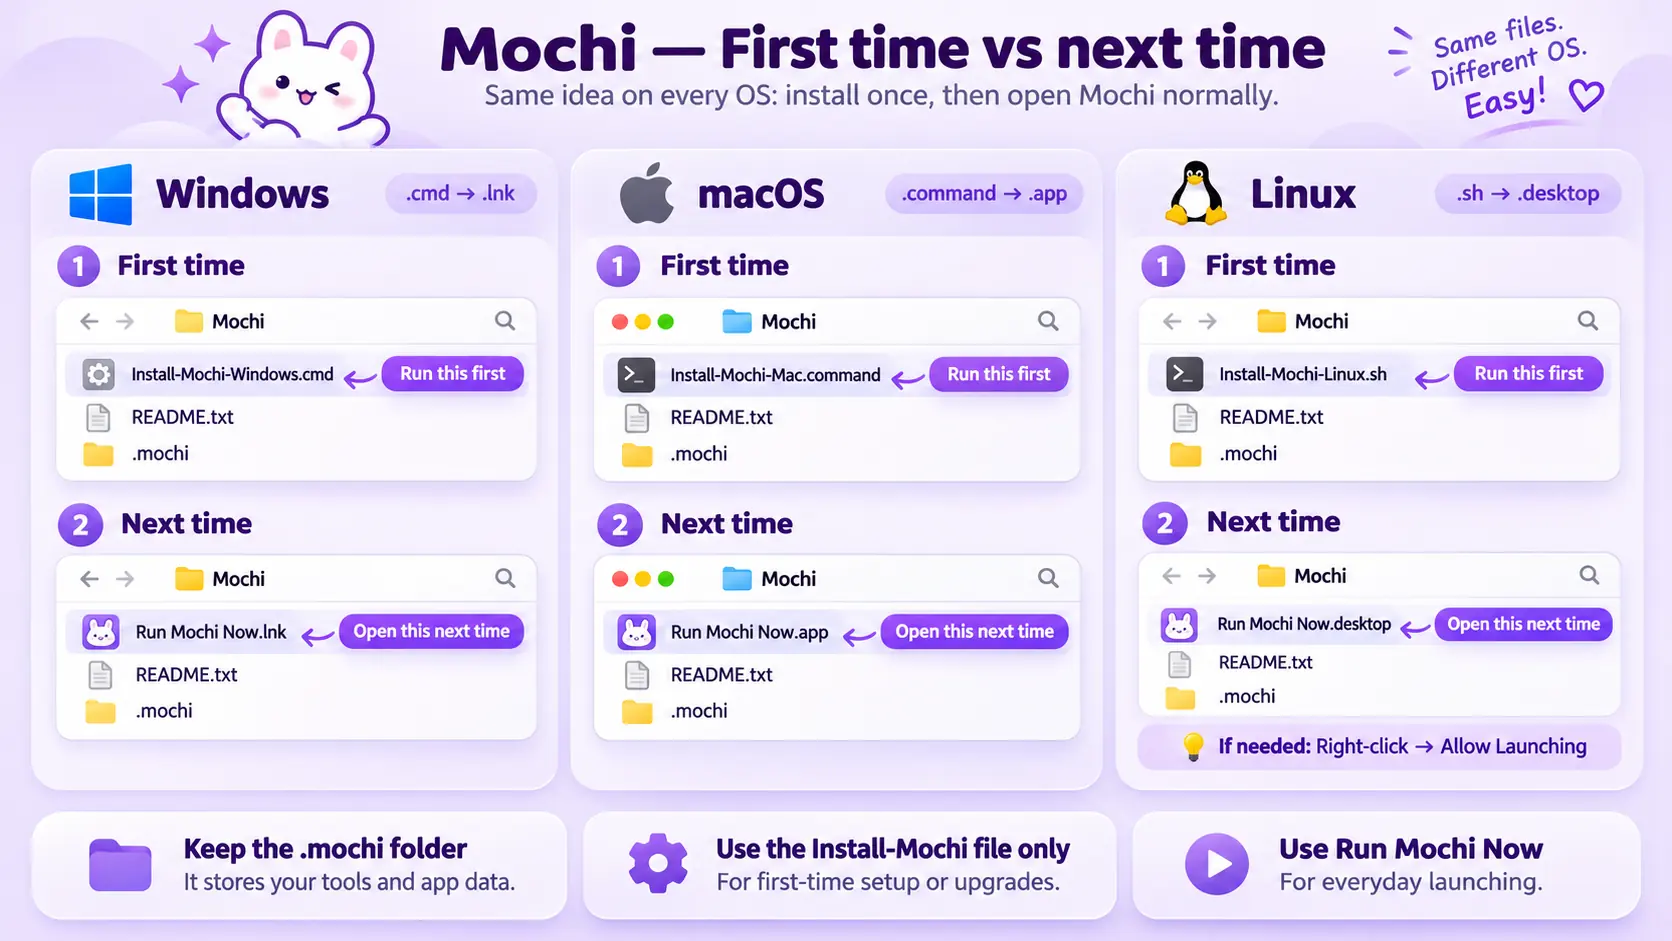
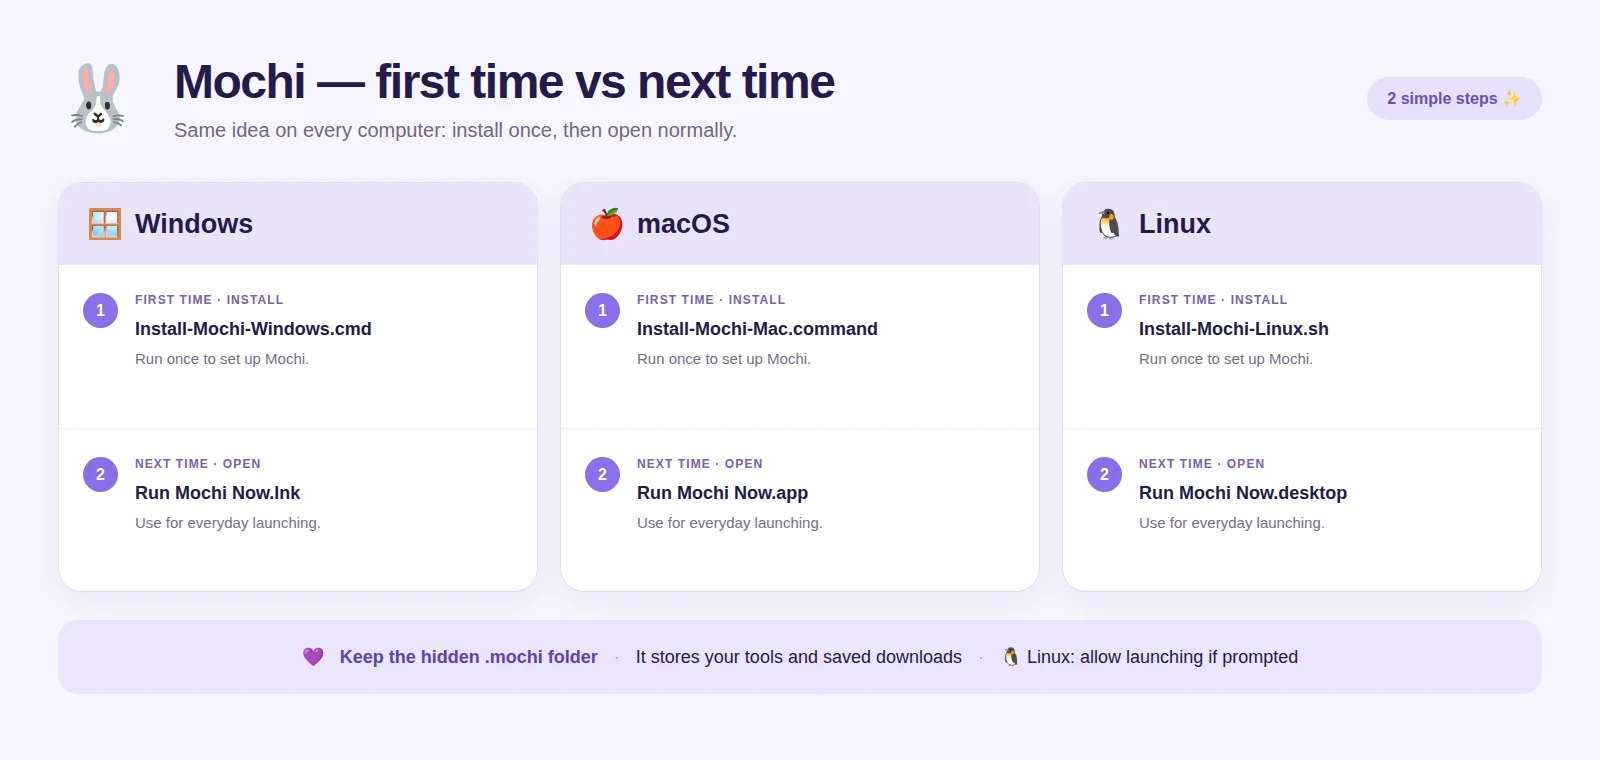
Refresh Mochi README and real screenshots for current UI
Replace stale sidebar screenshot with actual current Mochi capture; add verified transcript preview screenshot; replace OS setup guide with accurate filenames; correct bundled quick-start instructions; preserve honest in-app update/bookmark roadmap notes; add screenshot workflow and cross-platform documentation tests.

diff --git a/.github/scripts/render_docs_previews.py b/.github/scripts/render_docs_previews.py
@@ -1,0 +1,177 @@
+#!/usr/bin/env python3
+"""Capture README images from the real local Mochi UI, never from a mockup.
+
+The completed-job example uses a clearly synthetic TXT file. No YouTube
+traffic, accounts, third-party AI, or private user data is involved.
+"""
+from __future__ import annotations
+
+import html
+import os
+import sys
+import threading
+from http.server import ThreadingHTTPServer
+from pathlib import Path
+
+from PIL import Image
+from playwright.sync_api import sync_playwright
+
+ROOT = Path(__file__).resolve().parents[2]
+sys.path.insert(0, str(ROOT / "app"))
+import studio  # noqa: E402
+
+DOCS = ROOT / "docs"
+DOCS.mkdir(exist_ok=True)
+SAMPLE = (
+    "Welcome to Mochi! This is a sample transcript for the documentation.\n"
+    "Choose Transcript to save spoken words as a text file.\n"
+    "Mochi checks published YouTube captions before using local AI.\n"
+    "When the transcript finishes, choose Open transcript to read it right here.\n"
+    "Choose Copy for AI to paste the text into ChatGPT, Claude, or any AI.\n"
+    "Choose Open folder to find the original Transcript.txt on your computer.\n"
+    "Your text is not sent anywhere automatically.\n"
+    "This example uses demonstration text, not an actual YouTube transcript.\n"
+)
+
+
+def save_webp(page, name: str, *, locator: str | None = None) -> None:
+    path = DOCS / name
+    png = path.with_suffix(".capture.png")
+    if locator:
+        page.locator(locator).screenshot(path=str(png), animations="disabled")
+    else:
+        page.screenshot(path=str(png), full_page=True, animations="disabled")
+    with Image.open(png) as image:
+        image.convert("RGB").save(path, "WEBP", quality=88, method=6)
+    png.unlink()
+    if path.stat().st_size < 8_000:
+        raise RuntimeError(f"Invalid tiny screenshot: {name}")
+
+
+def capture_actual_ui(browser) -> None:
+    studio.ROOT = ROOT
+    studio.OUTPUT_DIR = ROOT / ".mochi" / "Downloads"
+    studio.OUTPUT_DIR.mkdir(parents=True, exist_ok=True)
+    studio.JOB = studio.JobState()
+    server = ThreadingHTTPServer(("127.0.0.1", 0), studio.WebHandler)
+    server.daemon_threads = True
+    server.secret = "docs-demo-local-session-key-not-for-users"
+    thread = threading.Thread(target=server.serve_forever, daemon=True)
+    thread.start()
+    base = f"http://127.0.0.1:{server.server_port}/?key={server.secret}"
+    page = browser.new_page(viewport={"width": 1440, "height": 1000},
+                            device_scale_factor=1)
+    try:
+        page.goto(base, wait_until="networkidle", timeout=30000)
+        page.locator(".hero-bunny img").evaluate(
+            "(image) => image.decode()"
+        )
+        assert page.locator("aside.sidebar .side-link").count() == 3
+        assert page.locator("label.choice").count() == 4
+        assert page.locator("aside.sidebar").inner_text().find("Full video") == -1
+        save_webp(page, "mochi-interface.webp")
+
+        page.locator('label.choice:has(input[value="transcript"])').click()
+        folder = studio.OUTPUT_DIR / "Mochi sample - demo"
+        folder.mkdir(parents=True, exist_ok=True)
+        (folder / "Transcript.txt").write_text(SAMPLE, encoding="utf-8")
+        studio.JOB.update(
+            "All done! Your files are ready 💜", 100, state="done",
+            files=["Transcript.txt"], folder=str(folder)
+        )
+        page.locator("#open-transcript").wait_for(state="visible", timeout=10000)
+        page.locator("#open-transcript").click()
+        page.locator("#transcript-preview").wait_for(state="visible", timeout=10000)
+        assert "This is a sample transcript" in page.locator("#transcript-text").input_value()
+        assert page.locator("#copy-transcript").is_visible()
+        assert page.locator("#open-folder").is_visible()
+        save_webp(page, "mochi-transcript-result.webp", locator="#activity")
+    finally:
+        page.close()
+        server.shutdown()
+        server.server_close()
+        thread.join(timeout=5)
+
+
+def guide_html() -> str:
+    src = (ROOT / "app" / "install_layout.py").read_text(encoding="utf-8")
+    first = [
+        ("Windows", "🪟", "Install-Mochi-Windows.cmd", "Run Mochi Now.lnk"),
+        ("macOS", "🍎", "Install-Mochi-Mac.command", "Run Mochi Now.app"),
+        ("Linux", "🐧", "Install-Mochi-Linux.sh", "Run Mochi Now.desktop"),
+    ]
+    for _os, _icon, install, next_time in first:
+        assert (ROOT / install).is_file(), install
+        assert next_time in src, next_time
+    cards = []
+    for platform, icon, installer, launcher in first:
+        cards.append(f"""
+        <article>
+          <header><span class="os-icon">{icon}</span><h2>{platform}</h2></header>
+          <div class="step"><span class="num">1</span><div>
+             <div class="eyebrow">FIRST TIME · INSTALL</div>
+             <div class="filename">{html.escape(installer)}</div>
+             <p>Run once to set up Mochi.</p></div></div>
+          <div class="step"><span class="num">2</span><div>
+             <div class="eyebrow">NEXT TIME · OPEN</div>
+             <div class="filename">{html.escape(launcher)}</div>
+             <p>Use for everyday launching.</p></div></div>
+        </article>""")
+    return """<!doctype html><html lang="en"><head><meta charset="utf-8">
+    <style>
+      *{box-sizing:border-box}body{margin:0;background:#f7f5fe;color:#241a4b;
+      font-family:Arial,Helvetica,sans-serif}main{padding:54px 58px 40px}
+      .headline{display:flex;align-items:center;justify-content:space-between;gap:36px}
+      .bunny{font-size:64px}.heading{flex:1}.heading h1{font-size:48px;margin:0 0 10px;
+      letter-spacing:-1.5px}.heading p{font-size:20px;color:#72658c;margin:0}
+      .chip{background:#e7dffc;color:#6950b5;padding:12px 20px;border-radius:99px;
+      font-size:16px;font-weight:800}.cards{display:grid;grid-template-columns:repeat(3,1fr);
+      gap:22px;margin:40px 0 28px}article{background:white;border:1px solid #e3dcf2;
+      border-radius:24px;overflow:hidden;box-shadow:0 10px 30px #4d308812}
+      article header{padding:24px 28px;background:#eae3fa;display:flex;gap:12px;align-items:center}
+      article h2{font-size:27px;margin:0}.os-icon{font-size:29px}.step{display:flex;gap:17px;
+      align-items:start;padding:28px 24px 20px;min-height:163px}
+      .step+.step{border-top:1px solid #eee9f6}.num{width:35px;height:35px;flex:0 0 35px;
+      display:grid;place-items:center;background:#8c6eeb;color:white;border-radius:50%;font-weight:900}
+      .eyebrow{font-size:12px;font-weight:900;letter-spacing:1.1px;color:#7960b5;margin:0 0 10px}
+      .filename{font-size:18px;font-weight:800;line-height:1.35;overflow-wrap:anywhere}
+      .step p{font-size:15px;color:#766d8e;margin:9px 0 0}
+      footer{display:flex;align-items:center;justify-content:center;gap:16px;
+      font-size:18px;padding:26px 22px;background:#eae4fa;border-radius:20px}
+      footer strong{color:#5e42b2}footer .divider{color:#aaa0bf}
+    </style></head><body><main><div class="headline"><span class="bunny">🐰</span>
+      <div class="heading"><h1>Mochi — first time vs next time</h1>
+      <p>Same idea on every computer: install once, then open normally.</p></div>
+      <span class="chip">2 simple steps ✨</span></div>
+      <div class="cards">""" + "\n".join(cards) + """</div>
+      <footer>💜 <strong>Keep the hidden .mochi folder</strong>
+      <span class="divider">·</span> It stores your tools and saved downloads
+      <span class="divider">·</span> 🐧 Linux: allow launching if prompted</footer>
+    </main></body></html>"""
+
+
+def capture_setup_guide(browser) -> None:
+    page = browser.new_page(viewport={"width": 1600, "height": 760},
+                            device_scale_factor=1)
+    try:
+        page.set_content(guide_html(), wait_until="load")
+        assert page.locator("article").count() == 3
+        save_webp(page, "mochi-first-time-vs-next-time.webp")
+    finally:
+        page.close()
+
+
+def main() -> None:
+    with sync_playwright() as play:
+        browser = play.chromium.launch(headless=True, args=["--no-sandbox"])
+        try:
+            capture_actual_ui(browser)
+            capture_setup_guide(browser)
+        finally:
+            browser.close()
+    for path in sorted(DOCS.glob("*.webp")):
+        print(f"✔ {path.relative_to(ROOT)} ({path.stat().st_size:,} bytes)")
+
+
+if __name__ == "__main__":
+    main()

diff --git a/app/tests/test_documentation_current.py b/app/tests/test_documentation_current.py
@@ -1,0 +1,51 @@
+"""Keep public docs aligned with the working Mochi browser studio."""
+from pathlib import Path
+from PIL import Image
+
+ROOT = Path(__file__).resolve().parents[2]
+
+
+def test_readme_shows_real_current_ui_and_completed_transcript():
+    readme = (ROOT / "README.md").read_text(encoding="utf-8")
+    ui = (ROOT / "app/assets/index.html").read_text(encoding="utf-8")
+    assert ui.count('class="side-link"') == 3
+    assert "Home" not in ui.split('<aside class="sidebar"')[1].split("</aside>")[0]
+    assert 'id="open-transcript"' in ui
+    assert 'id="copy-transcript"' in ui
+    assert 'id="open-folder"' in ui
+    for image in ("mochi-interface.webp", "mochi-transcript-result.webp",
+                  "mochi-first-time-vs-next-time.webp"):
+        assert f"docs/{image}" in readme
+        path = ROOT / "docs" / image
+        assert path.is_file()
+        with Image.open(path) as img:
+            assert img.format == "WEBP"
+            assert img.width >= 800 and img.height >= 180
+            img.verify()
+
+
+def test_documentation_does_not_promise_unreleased_updater_or_bookmark_support():
+    readme = (ROOT / "README.md").read_text(encoding="utf-8")
+    assert "issues/11" in readme
+    assert "not available yet" in readme
+    assert "A bookmarked local browser link can stop working" in readme
+    assert "Run Mochi Now" in readme
+
+
+def test_both_bundled_guides_match_actual_result_actions():
+    guide = (ROOT / "📖 READ ME.txt").read_text(encoding="utf-8")
+    installed = (ROOT / "app/install_layout.py").read_text(encoding="utf-8")
+    for label in ("Open transcript", "Copy for AI", "Open folder", "Run Mochi Now"):
+        assert label in guide
+        assert label in installed
+    assert "Open my saved files" not in guide
+    assert "Open my saved files" not in installed
+
+
+def test_preview_generator_is_reusable_without_publishing_fake_features():
+    workflow = (ROOT / ".github/workflows/docs-screenshots.yml").read_text(encoding="utf-8")
+    script = (ROOT / ".github/scripts/render_docs_previews.py").read_text(encoding="utf-8")
+    assert "workflow_dispatch" in workflow
+    assert "capture_actual_ui" in script
+    assert "This example uses demonstration text" in script
+    assert "open-transcript" in script and "copy-transcript" in script

diff --git a/app/install_layout.py b/app/install_layout.py
@@ -19,17 +19,15 @@ BACKUP = STATE / 'app.previous'
 NEXT = STATE / 'app.next'
 README_NAME = '📖 READ ME.txt'
 README = """✦ MOCHI VIDEO STUDIO ✦
-======================
 
-▶ Double-click  Run Mochi Now
-🐧 Linux shortcut blocked? Right-click → Allow Launching; fallback: sh .mochi/run.sh
-🔗 Paste a YouTube link
-🎬 Pick video / audio / subtitles / text
-✨ Press Make it happen
-📂 Saved files: tap Open my saved files after completion.
-💾 In hidden .mochi/: keep Downloads; cache is safe to clear when closed. AI is optional.
-
-🛠 Stuck? Tap Fix my tools (top right).
+▶ Next time: Run Mochi Now.
+🔗 Paste a link → choose → Make it happen.
+📝 Transcript done? Open transcript / Copy for AI / Open folder.
+📁 Saved files: .mochi/Downloads. Keep .mochi (tools + files).
+🔄 Update: merge the latest ZIP into this folder; rerun Install-Mochi.
+🔖 Old browser bookmarks may expire; use Run Mochi Now.
+🛠 Stuck? Fix my tools.
+🐧 Linux: allow launching if asked; fallback: sh .mochi/run.sh
 💜 Made with love by 1Hack — OneHack.st
 """
 

diff --git a/app/tests/test_layout.py b/app/tests/test_layout.py
@@ -69,7 +69,7 @@ def test_finish_only_launcher_readme_visible(work):
     install_layout.finish()
     assert sorted(p.name for p in work.iterdir() if not p.name.startswith('.'))==[('Run Mochi Now.lnk' if (work/'Run Mochi Now.lnk').exists() else 'Run Mochi Now.cmd') if os.name == 'nt' else ('Run Mochi Now.app' if sys.platform == 'darwin' else 'Run Mochi Now.desktop'),'📖 READ ME.txt']
     readme=(work/'📖 READ ME.txt').read_text(encoding='utf-8')
-    assert len(readme)<500 and '1Hack' in readme and '📂' in readme
+    assert len(readme)<500 and '1Hack' in readme and '📁' in readme
     assert not (work/'app').exists()
     assert (work/'.mochi'/'app'/'core.py').exists()
     assert (work/'.mochi'/'run.sh').exists()

diff --git a/README.md b/README.md
@@ -14,8 +14,10 @@
 <p align="center"><sub>Free · Windows · macOS · Linux · Local AI · No account</sub></p>
 
 <p align="center">
-  <img src="docs/mochi-interface.webp" width="940" alt="Mochi's real purple interface with a bunny above the video link box and four simple download choices" />
+  <img src="docs/mochi-interface.webp" width="940" alt="Actual Mochi home screen: three sidebar utilities, a YouTube link box, and four choices for video, audio, subtitles, and transcript" />
 </p>
+
+<p align="center"><sub>Actual Mochi home screen · Video, audio, subtitles and transcript are selected here; the sidebar contains only tools.</sub></p>
 
 ---
 
@@ -39,7 +41,18 @@
 
 No paid transcription service or account required. AI is downloaded only when needed; results can contain mistakes.
 
-**📝 When a transcript finishes:** **Open transcript** to read it right in Mochi, **Copy for AI** to paste into ChatGPT, Claude, or another AI, or **Open folder** for the saved `Transcript.txt`. Nothing is uploaded or shared automatically.
+**📝 When a transcript finishes:** **Open transcript** to read it in Mochi, **Copy for AI** to paste into ChatGPT, Claude, or another AI, or **Open folder** for the saved `Transcript.txt`. Nothing is uploaded automatically.
+
+<details>
+<summary><strong>👀 See the actual finished transcript view</strong></summary>
+
+<p align="center">
+  <img src="docs/mochi-transcript-result.webp" width="940" alt="Actual Mochi completion panel with Open transcript, Copy for AI, Open folder, and a read-only preview of demonstration transcript text" />
+</p>
+
+<sub>Captured from Mochi's current interface using clearly labeled demonstration text—not an actual YouTube transcript.</sub>
+
+</details>
 
 ---
 
@@ -51,7 +64,7 @@ No paid transcription service or account required. AI is downloaded only when ne
 
 ### 🗂 First time vs next time
 
-**First time:** Install-Mochi &nbsp; → &nbsp; **Everyday:** Run Mochi Now
+**First time:** `Install-Mochi` for your OS &nbsp; → &nbsp; **Next time:** `Run Mochi Now`.
 
 <p align="center">
   <img src="docs/mochi-first-time-vs-next-time.webp" width="940" alt="Mochi setup guide for Windows, macOS and Linux: use the Install-Mochi file for first-time setup, then Run Mochi Now for everyday use. Keep the hidden .mochi folder." />
@@ -88,6 +101,15 @@ Never delete the whole `.mochi` folder to save space.
 ## 🛠 Need help?
 
 **Something stuck?** Open Mochi → **Fix my tools**, or [ask the 1Hack community](https://onehack.st/t/mochi-free-youtube-downloader-ai-subtitles-transcript/326924).
+
+<details>
+<summary><strong>🔄 Updating Mochi or reopening an old browser bookmark</strong></summary>
+
+- **Update today:** Finish your current job, download the latest Mochi.zip, extract/merge its files into your **existing Mochi folder** (do not delete `.mochi`), then run the `Install-Mochi` file for your OS again.
+- **Reopen Mochi:** Use **Run Mochi Now**. A bookmarked local browser link can stop working after Mochi restarts because the port and session key may change.
+- **Coming later, not available yet:** In-app updates, persistent transcript history and stable browser-bookmark reopening. These are tracked in [the roadmap](https://github.com/Unknown-1Hacker/mochi-video-downloader-ai-transcriber/issues/11).
+
+</details>
 
 <details>
 <summary><strong>🐧 Linux: launcher won't open?</strong></summary>
